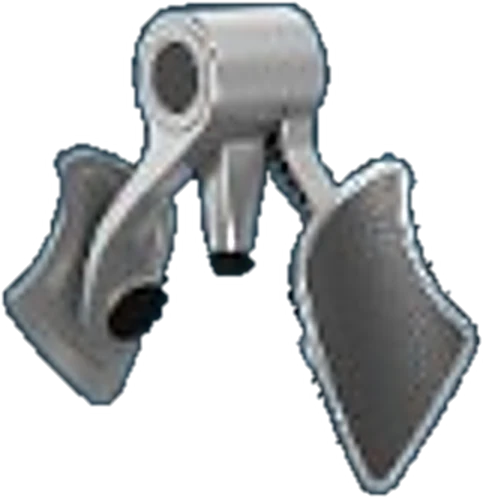
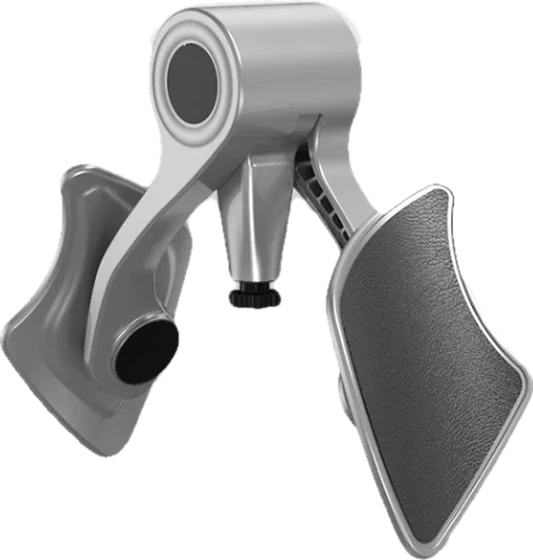
拆红包:加两款润滑油,换清楚的训练器照片

Changed region(s): [[0.0, 0.0, 1.0, 1.0]]

diff --git a/functions/api/d11.js b/functions/api/d11.js
@@ -5,11 +5,13 @@ import { adminCookieOK, json, kvGet, kvSet } from './_lib.js';
 const KEYS = { x7k2: 2, q4m9: 4, z8p3: 6 };   // 3 个链接的暗码 → 可拆几次
 const LINKS = [2, 4, 6];
 const DEFAULT_ODDS = {
-  sachet5:  { 2: 59.5, 4: 43,  6: 37 },
+  sachet5:  { 2: 55.5, 4: 37,  6: 29 },
   sachet10: { 2: 10,   4: 20,  6: 25 },
   wow2:     { 2: 25,   4: 20,  6: 15 },
   wow5:     { 2: 4,    4: 10,  6: 12 },
   wow10:    { 2: 0.5,  4: 2,   6: 4 },
+  care_oolong: { 2: 2, 4: 3, 6: 4 },
+  care_aloe:   { 2: 2, 4: 3, 6: 4 },
   kegel:    { 2: 0.5,  4: 2,   6: 3 },
   box1:     { 2: 0.5,  4: 2.5, 6: 3.5 },
   box2:     { 2: 0,    4: 0.5, 6: 0.5 },

diff --git a/d11/shared.js b/d11/shared.js
@@ -8,6 +8,8 @@ const PRIZES = [
   {id:"wow2",     name:"WoW Care x2",   short:"WoW x2",  cost:4},
   {id:"wow5",     name:"WoW Care x5",   short:"WoW x5",  cost:10},
   {id:"wow10",    name:"WoW Care x10",  short:"WoW x10", cost:20},
+  {id:"care_oolong", name:"CARE 茶香润滑油", short:"茶香润滑油", cost:16},
+  {id:"care_aloe",   name:"CARE 芦荟润滑油", short:"芦荟润滑油", cost:16},
   {id:"kegel",    name:"凯戈尔训练器",    short:"训练器",  cost:30},
   {id:"box1",     name:"1盒 MFormula",  short:"1盒",     cost:38},
   {id:"box2",     name:"2盒 MFormula",  short:"2盒",     cost:76}
